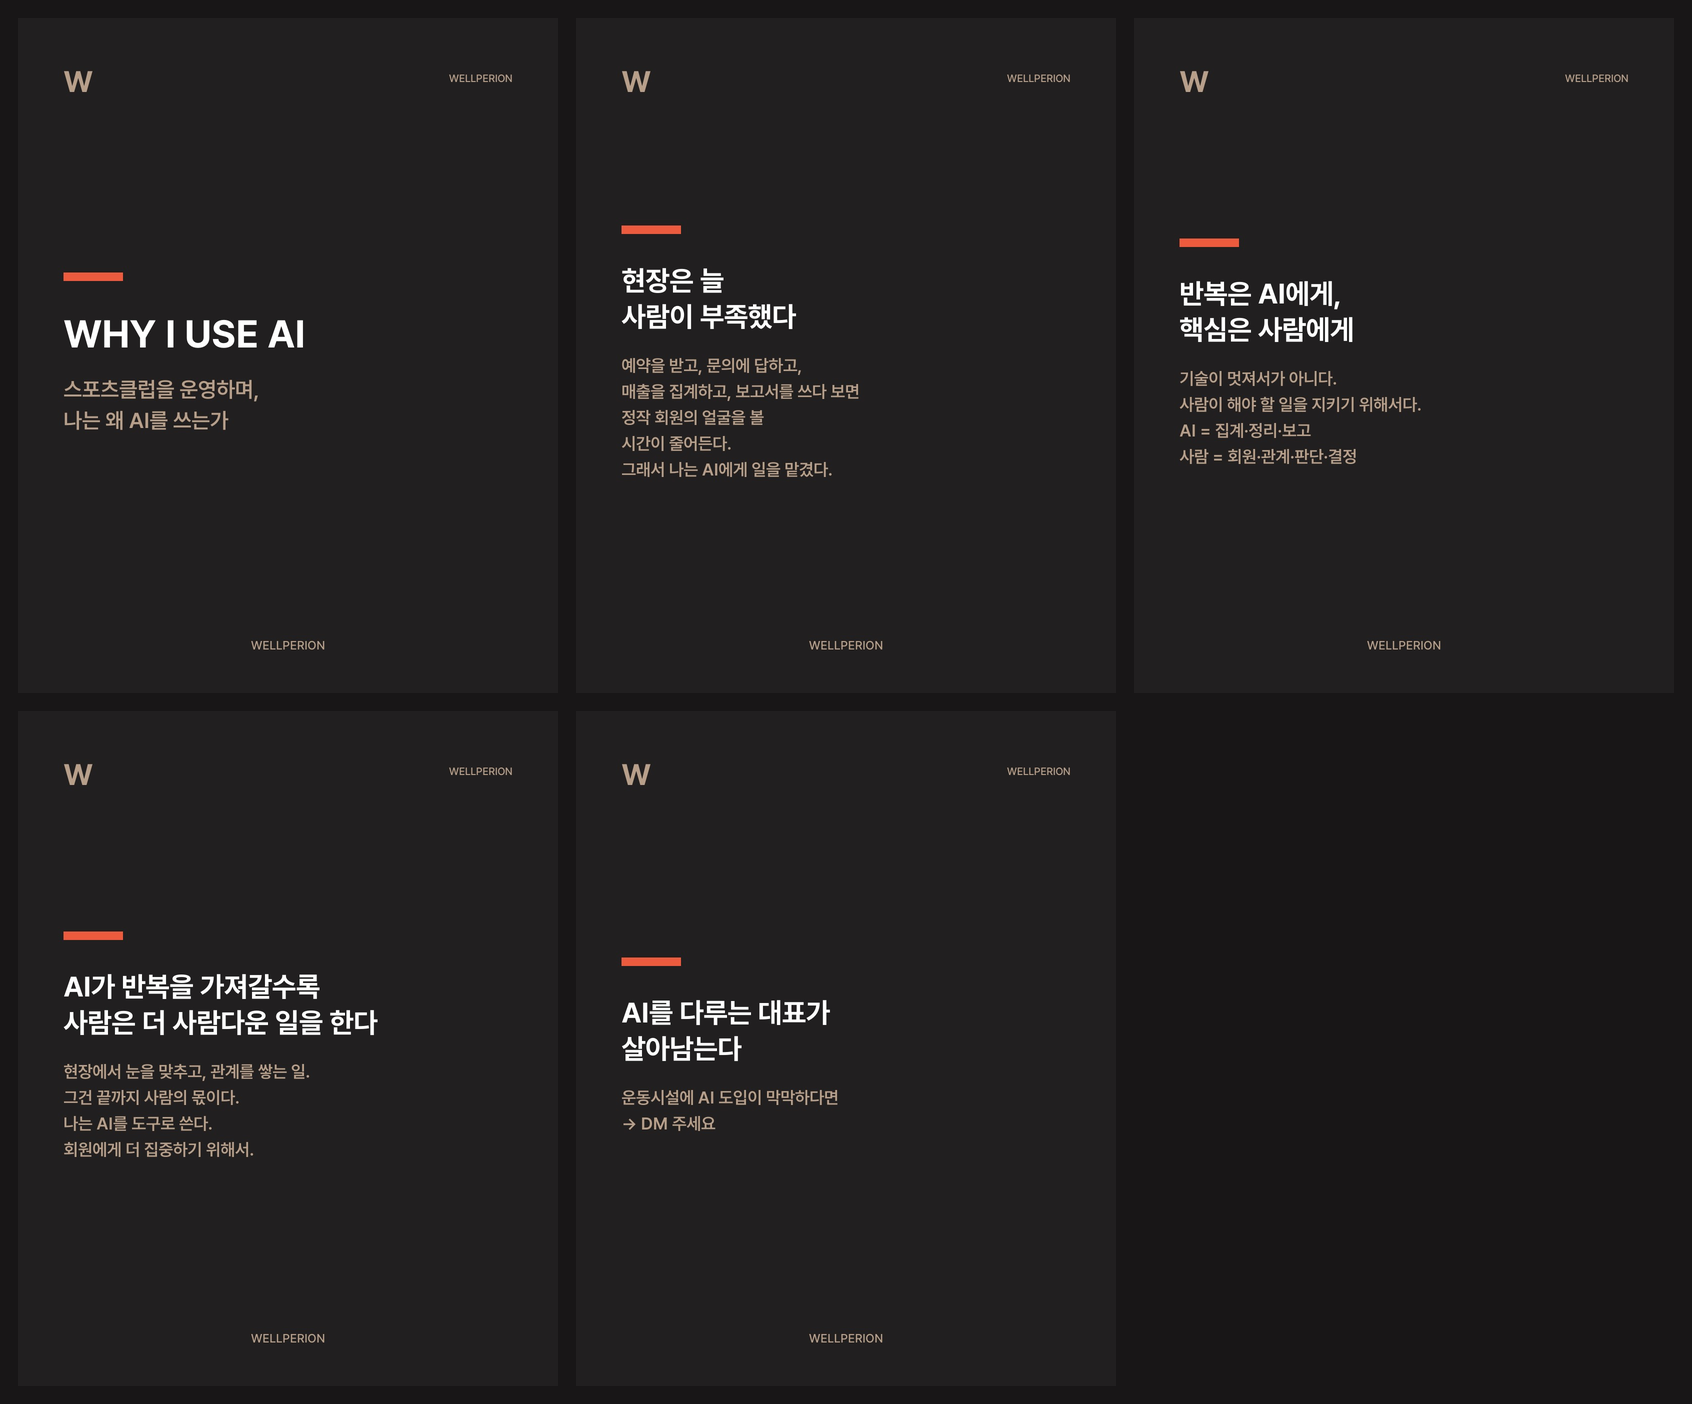
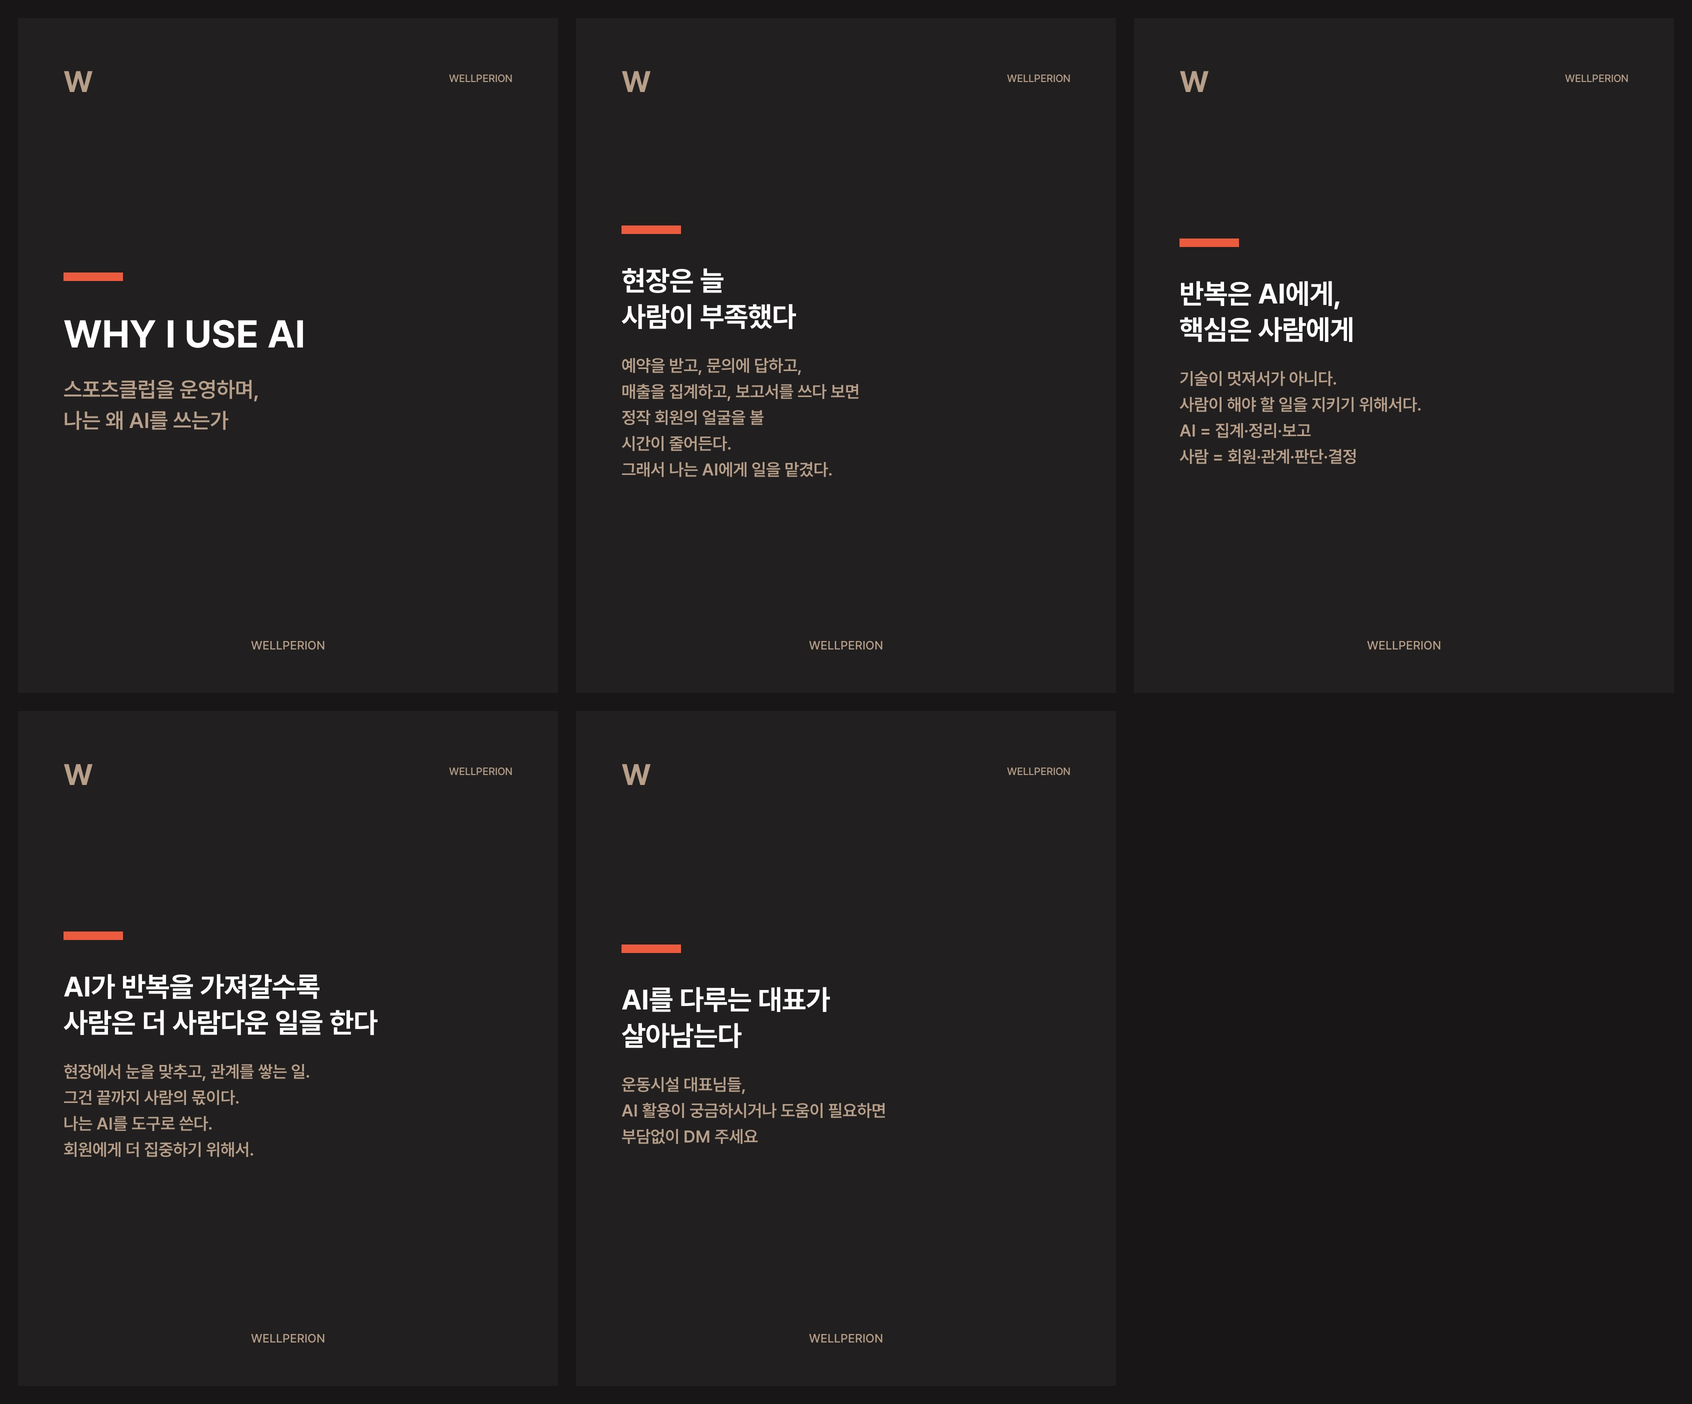
fix(cmo): 왜AI 마지막장 DM CTA 문구 GM 지정본으로 교체('운동시설 대표님들…부담없이 DM 주세요')

Changed region(s): [[0.3688, 0.6738, 0.5225, 0.8269]]

diff --git a/instagram/260530_왜AI_스포츠클럽/build_slides.py b/instagram/260530_왜AI_스포츠클럽/build_slides.py
@@ -82,7 +82,7 @@ def main() -> None:
         output=slogan_out,
         brand_key="main",
         kor_title="AI를 다루는 대표가\n살아남는다",
-        body="운동시설에 AI 도입이 막막하다면\n→ DM 주세요",
+        body="운동시설 대표님들,\nAI 활용이 궁금하시거나 도움이 필요하면\n부담없이 DM 주세요",
     )
     print(f"[OK] post_5.jpg - slogan card ({r['size_kb']}KB)")
     paths.append(slogan_out)
